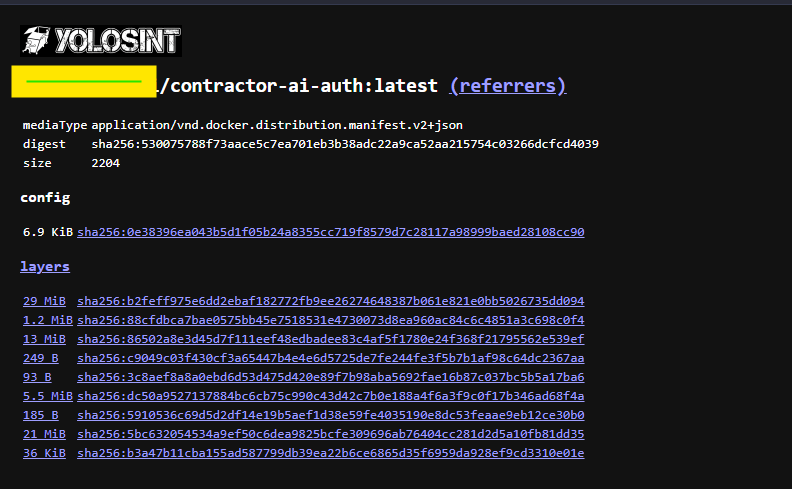
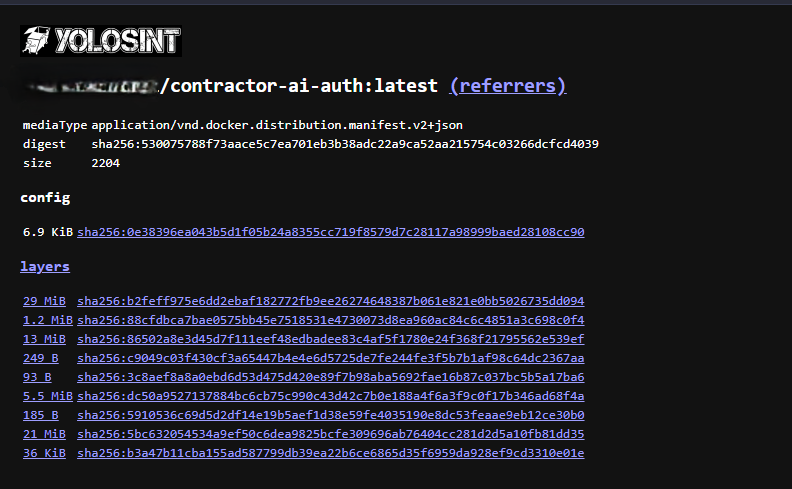
cleanup the screens

Changed region(s): [[0.0, 0.1227, 0.2121, 0.2147]]

diff --git a/README.md b/README.md
@@ -7,6 +7,8 @@ Forked from and Inspired by [https://github.com/jonjohnsonjr/dagdotdev](https://
 ## Docker Dorker
 This is a web server for exploring the contents of an OCI registry, FS style output.
 
+![lolrsaprivate](/docs/screenshots/rsapriv.png)
+
 ---
 
 ## Quick Start (Docker)
